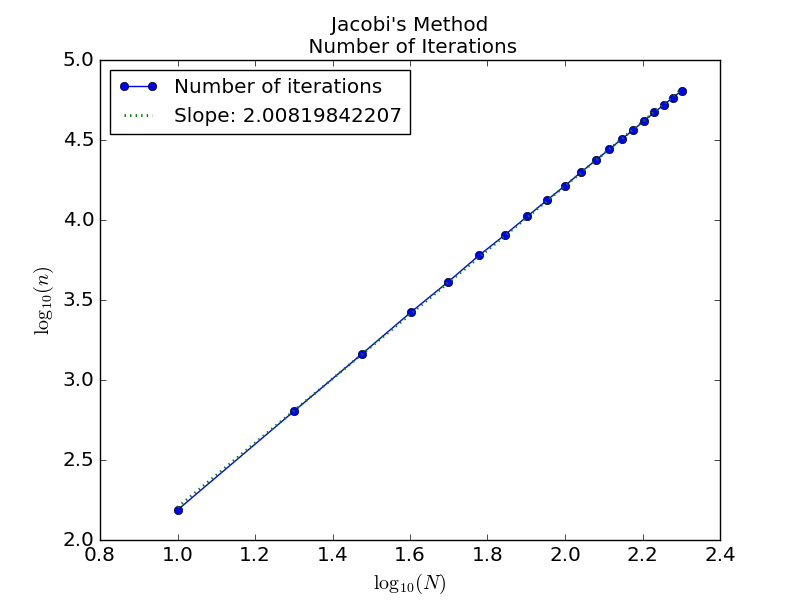
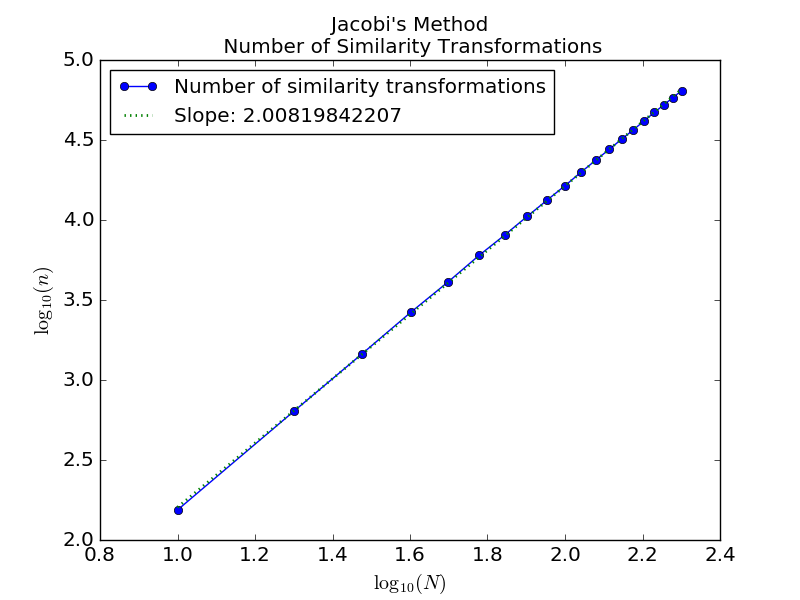
Finalizing project 2

Changed region(s): [[0.2812, 0.06, 0.75, 0.24]]

diff --git a/Project2/plot.py b/Project2/plot.py
@@ -47,8 +47,8 @@ if sys.argv[1] == "benchmark":
     fig1.savefig("./Results/benchmark.png")
 
     fig2 = plt.figure(2)
-    title = "Jacobi's Method\n Number of Iterations"
-    plt.plot(n, iter, 'o-', label='Number of iterations')
+    title = "Jacobi's Method\n Number of Similarity Transformations"
+    plt.plot(n, iter, 'o-', label='Number of similarity transformations')
     plt.plot(n, fit3(n), ":", lw=2, label='Slope: ' + str(slope3))
 
     plt.gca().set_xlabel('$\\log_{10}(N)$')
